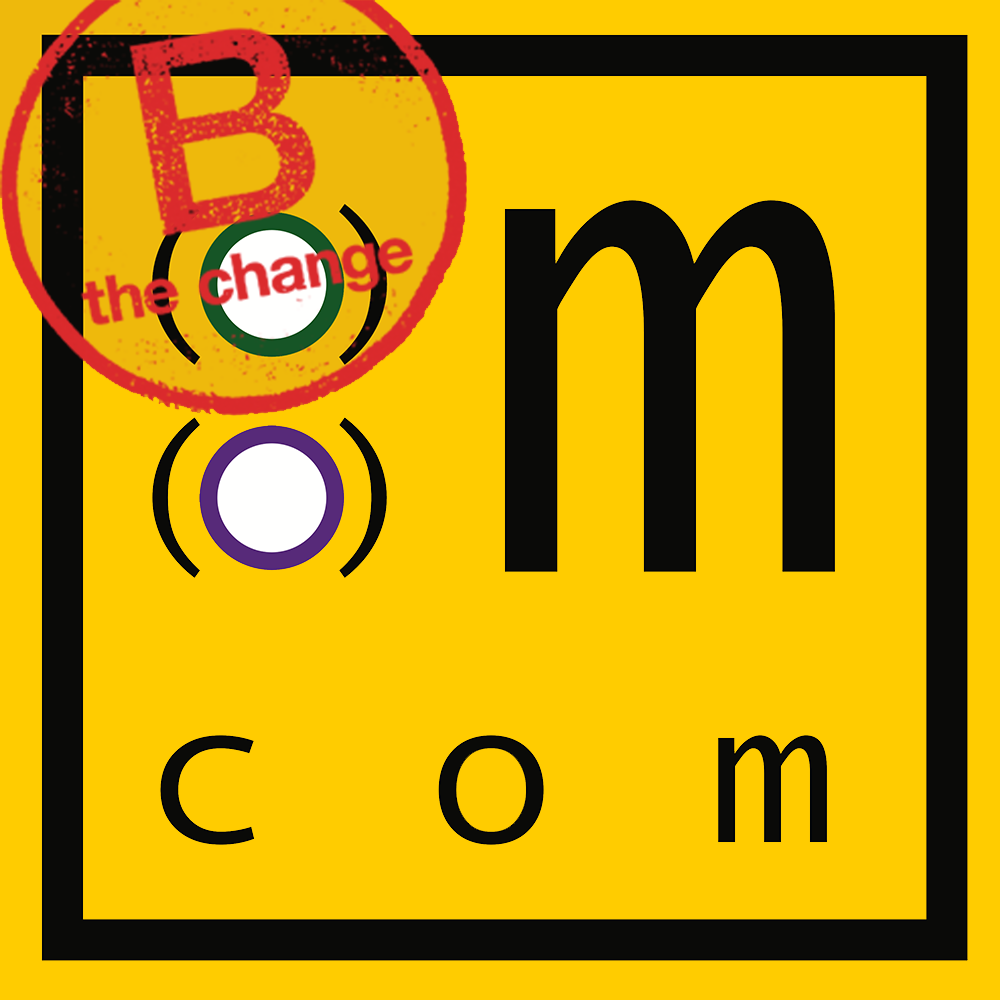
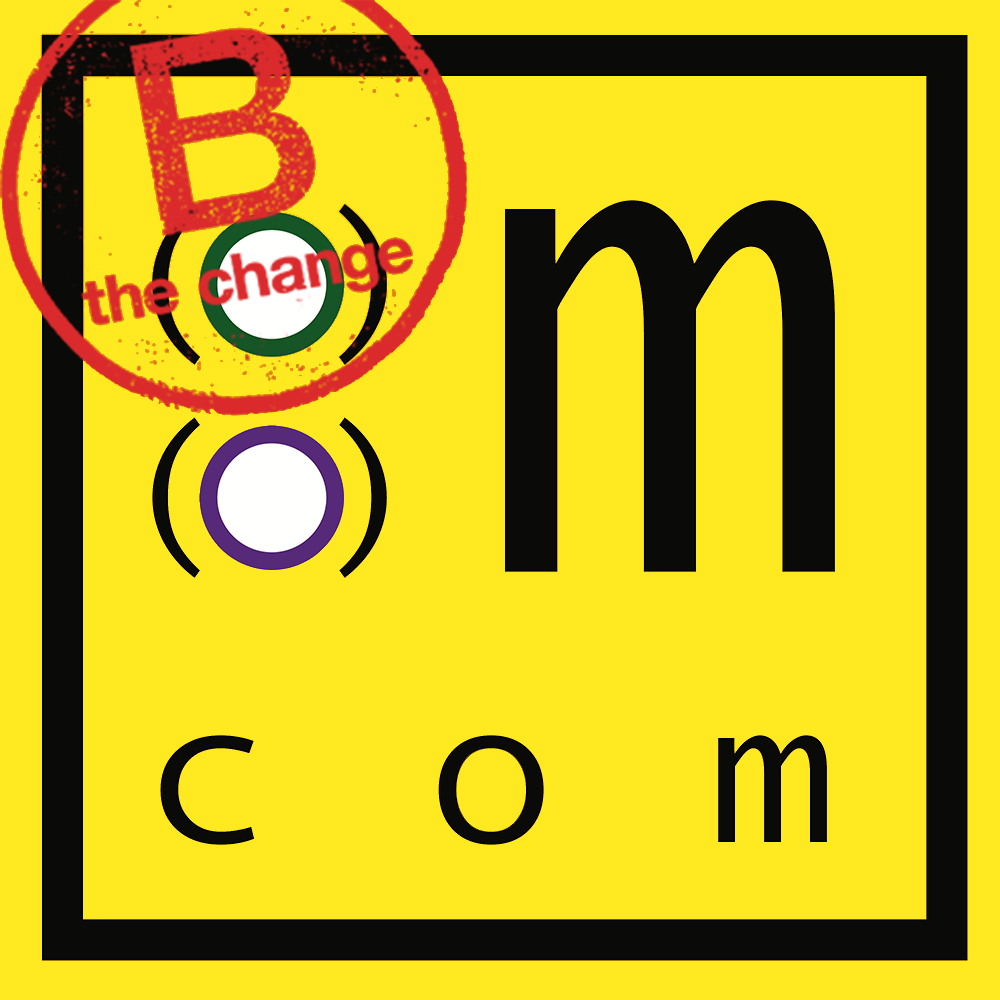
changed yellow

diff --git a/app/pages/home/home.scss b/app/pages/home/home.scss
@@ -84,7 +84,7 @@ $mnd-black: #000000;
     display: inline-block;
     font-size: 50px;
     font-weight: bold;
-    color: #ffcc00;
+    color: #FFE921;
     @media (max-height: 570px) {
         font-size: 35px;
     }
@@ -151,7 +151,7 @@ $mnd-black: #000000;
     margin-right: 5px;
 }
 .m-numbers {
-    color: #ffcc00;
+    color: #FFE921;
     font-size: 30px;
 }
 .introduction-container {
@@ -168,7 +168,7 @@ $mnd-black: #000000;
 }
 .introduction-icon {
     font-size: 60px;
-    color: #ffcc00;
+    color: #FFE921;
 }
 .introduction-text {
     font-weight: 200;
@@ -201,8 +201,8 @@ $mnd-black: #000000;
     margin-top: 10px;
     font-size: 12px;
     border-radius: 5px;
-    background-color: #ffcc00;
-    border-color: #ffcc00;
+    background-color: #FFE921;
+    border-color: #FFE921;
     bottom: 10px;
     position: absolute;
 }
@@ -210,7 +210,7 @@ $mnd-black: #000000;
     display: inline-block;
     font-size: 27px;
     font-weight: bold;
-    color: #ffcc00;
+    color: #FFE921;
     margin-bottom: 20px;
 }
 .sections-titles {
@@ -235,8 +235,9 @@ $mnd-black: #000000;
 .post-text {
     font-size: 13px;
     font-weight: 200;
-    height: 90px;
+    height: 105px;
     overflow: hidden;
+    max-width: 360px;
 }
 .post-author {
     font-size: 9px;
@@ -256,7 +257,7 @@ $mnd-black: #000000;
 .social-logos {
     font-size: 30px;
     display: inline-block;
-    color: #ffcc00;
+    color: #FFE921;
     margin: 2px;
 }
 #twitter-date {
@@ -269,7 +270,7 @@ $mnd-black: #000000;
     display: inline-block;
     font-size: 20px;
     line-height: 0px;
-    color: #ffcc00;
+    color: #FFE921;
     @media (max-width: 1050px) {
         display: none;
     }
@@ -302,5 +303,5 @@ $mnd-black: #000000;
 #bcorp-certification {
     font-size: 12px;
     font-weight: 200;
-    color: #ffcc00;
+    color: #FFE921;
 }

diff --git a/app/pages/personalHome/personalHome.scss b/app/pages/personalHome/personalHome.scss
@@ -1,5 +1,5 @@
 // Colours
-$mnd-yellow: #ffcc00;
+$mnd-yellow: #FFE921;
 $mnd-grey: #5e5f5f;
 $mnd-light-grey: #abadad;
 
@@ -36,7 +36,7 @@ h4.component-title {
 	font-size: 20px;
 	color: $mnd-grey;
 	box-shadow: 4px 4px 6px #414141;
-	background: #ffcc00;
+	background: #FFE921;
 }
 .app-box:hover {
 	color: $mnd-light-grey;

diff --git a/app/root.html b/app/root.html
@@ -124,7 +124,7 @@
 			MENU
 		</div>
 		<div id="mnd-mondora-logo">
-			<img src="https://s3.amazonaws.com/mnd-website/img/mondora-logo.png" />
+			<img src="/assets/images/mondora-logo.png" />
 		</div>
 		<div id="mnd-b-corp-logo">
 			<a

diff --git a/app/pages/post/post.scss b/app/pages/post/post.scss
@@ -151,7 +151,7 @@
 			bottom: 0px;
 			width: 100%;
 			padding-top: 30px;
-			color: #ffcc00;	
+			color: #FFE921;
 			font-size: 60px;
 			text-align: center;
 		}

diff --git a/app/components/dashboard/toggle-sidebar-elements.scss b/app/components/dashboard/toggle-sidebar-elements.scss
@@ -1,4 +1,4 @@
-$mnd-yellow: #ffcc00;
+$mnd-yellow: #FFE921;
 $mnd-grey: #5e5f5f;
 $mnd-light-grey: #abadad;
 $mnd-font: "Fira Sans", sans-serif;

diff --git a/app/utils.scss b/app/utils.scss
@@ -1,5 +1,5 @@
 // Colours
-$mnd-yellow: #ffcc00;
+$mnd-yellow: #FFE921;
 $mnd-grey: #5e5f5f;
 $mnd-light-grey: #abadad;
 $mnd-green: #5cb85c;

diff --git a/app/components/dashboard/dashboard.scss b/app/components/dashboard/dashboard.scss
@@ -1,4 +1,4 @@
-$mnd-yellow: #ffcc00;
+$mnd-yellow: #FFE921;
 $mnd-grey: #5e5f5f;
 $mnd-light-grey: #abadad;
 $mnd-white: #ffffff;

diff --git a/app/components/dashboard/sidebar-elements.scss b/app/components/dashboard/sidebar-elements.scss
@@ -1,4 +1,4 @@
-$mnd-yellow: #ffcc00;
+$mnd-yellow: #FFE921;
 $mnd-black: #000000;
 $mnd-grey: #5e5f5f;
 $mnd-light-grey: #abadad;

diff --git a/app/components/cig-image/cig-image.scss b/app/components/cig-image/cig-image.scss
@@ -1,5 +1,5 @@
 // Colours
-$mnd-yellow: #ffcc00;
+$mnd-yellow: #FFE921;
 $mnd-grey: #5e5f5f;
 $mnd-light-grey: #abadad;
 

diff --git a/app/main.scss b/app/main.scss
@@ -1,5 +1,5 @@
 $mnd-font: "Montserrat";
-$mnd-yellow: #ffcc00;
+$mnd-yellow: #FFE921;
 $mnd-grey: #5e5f5f;
 
 html,

diff --git a/app/components/sprinkle/sprinkle.scss b/app/components/sprinkle/sprinkle.scss
@@ -1,4 +1,4 @@
-$mnd-yellow: #ffcc00;
+$mnd-yellow: #FFE921;
 $mnd-grey: #5e5f5f;
 
 .sprinkle-container {
